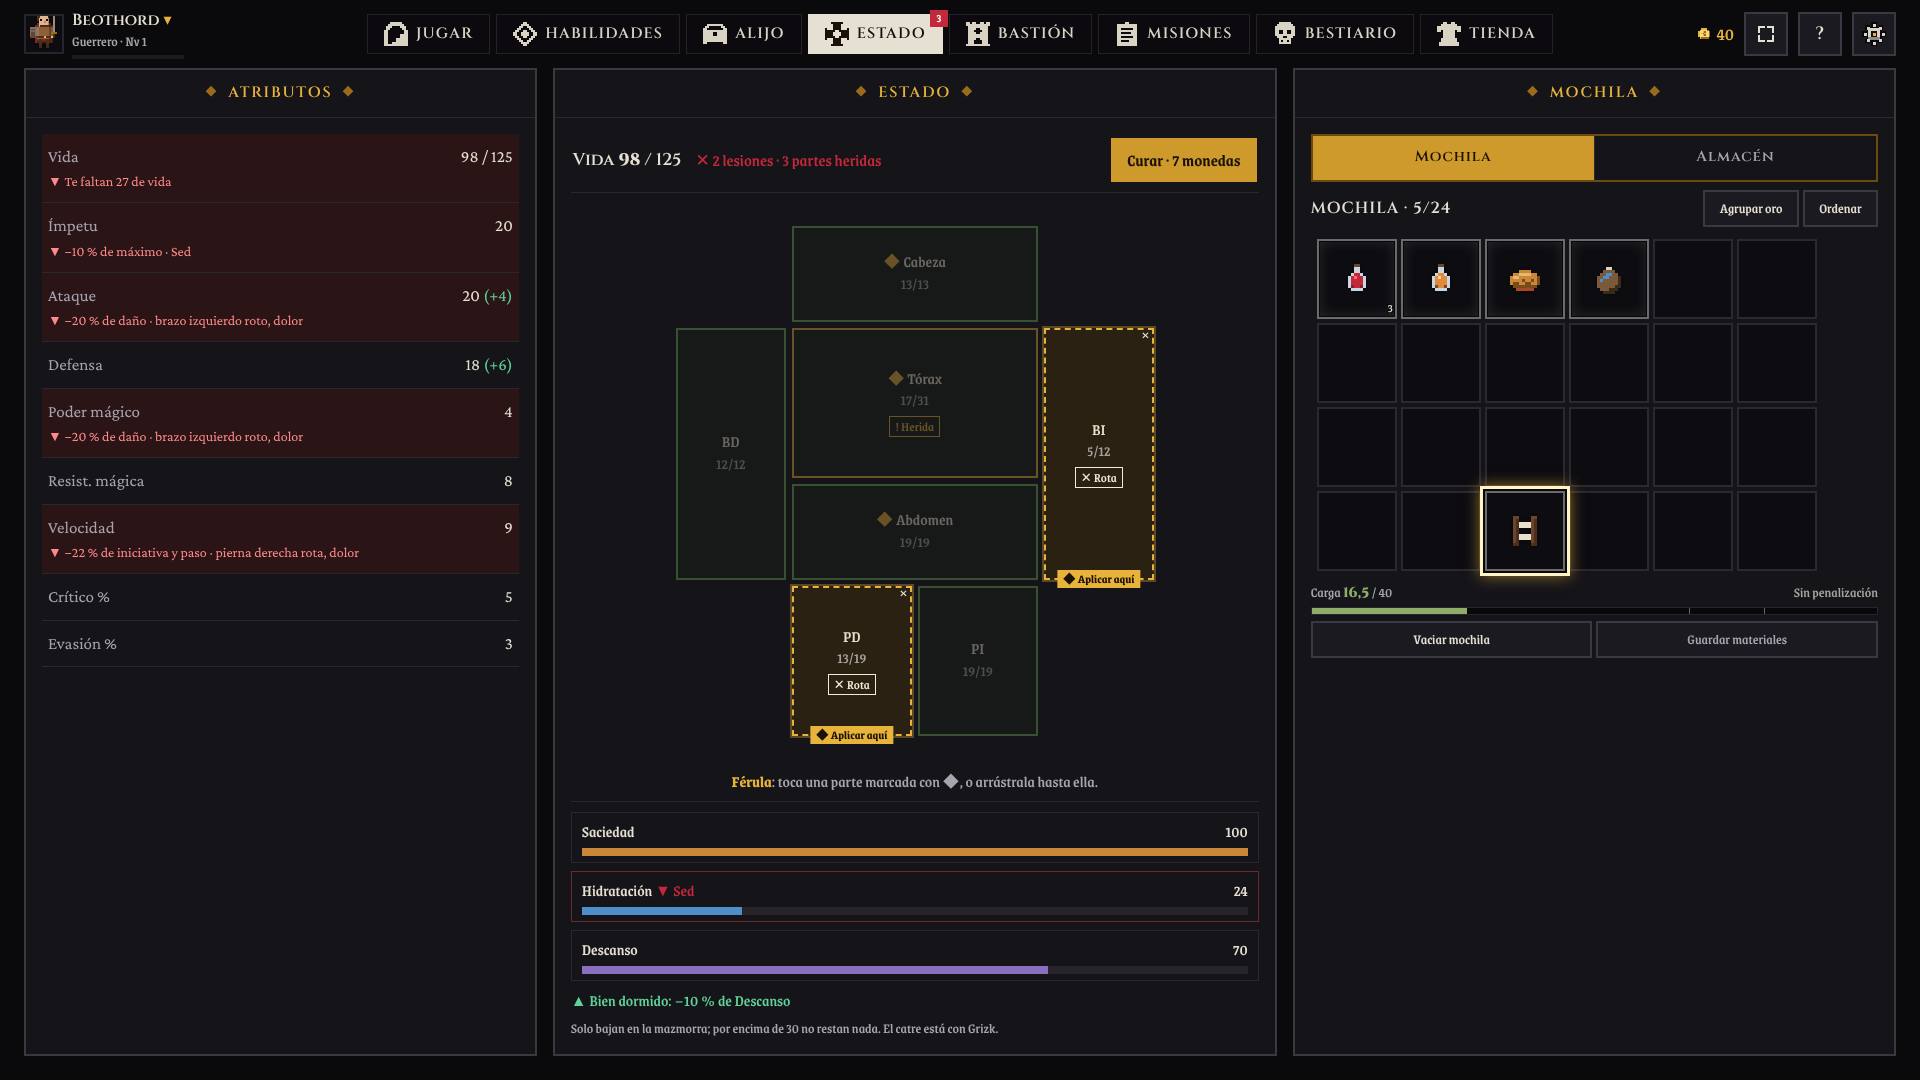
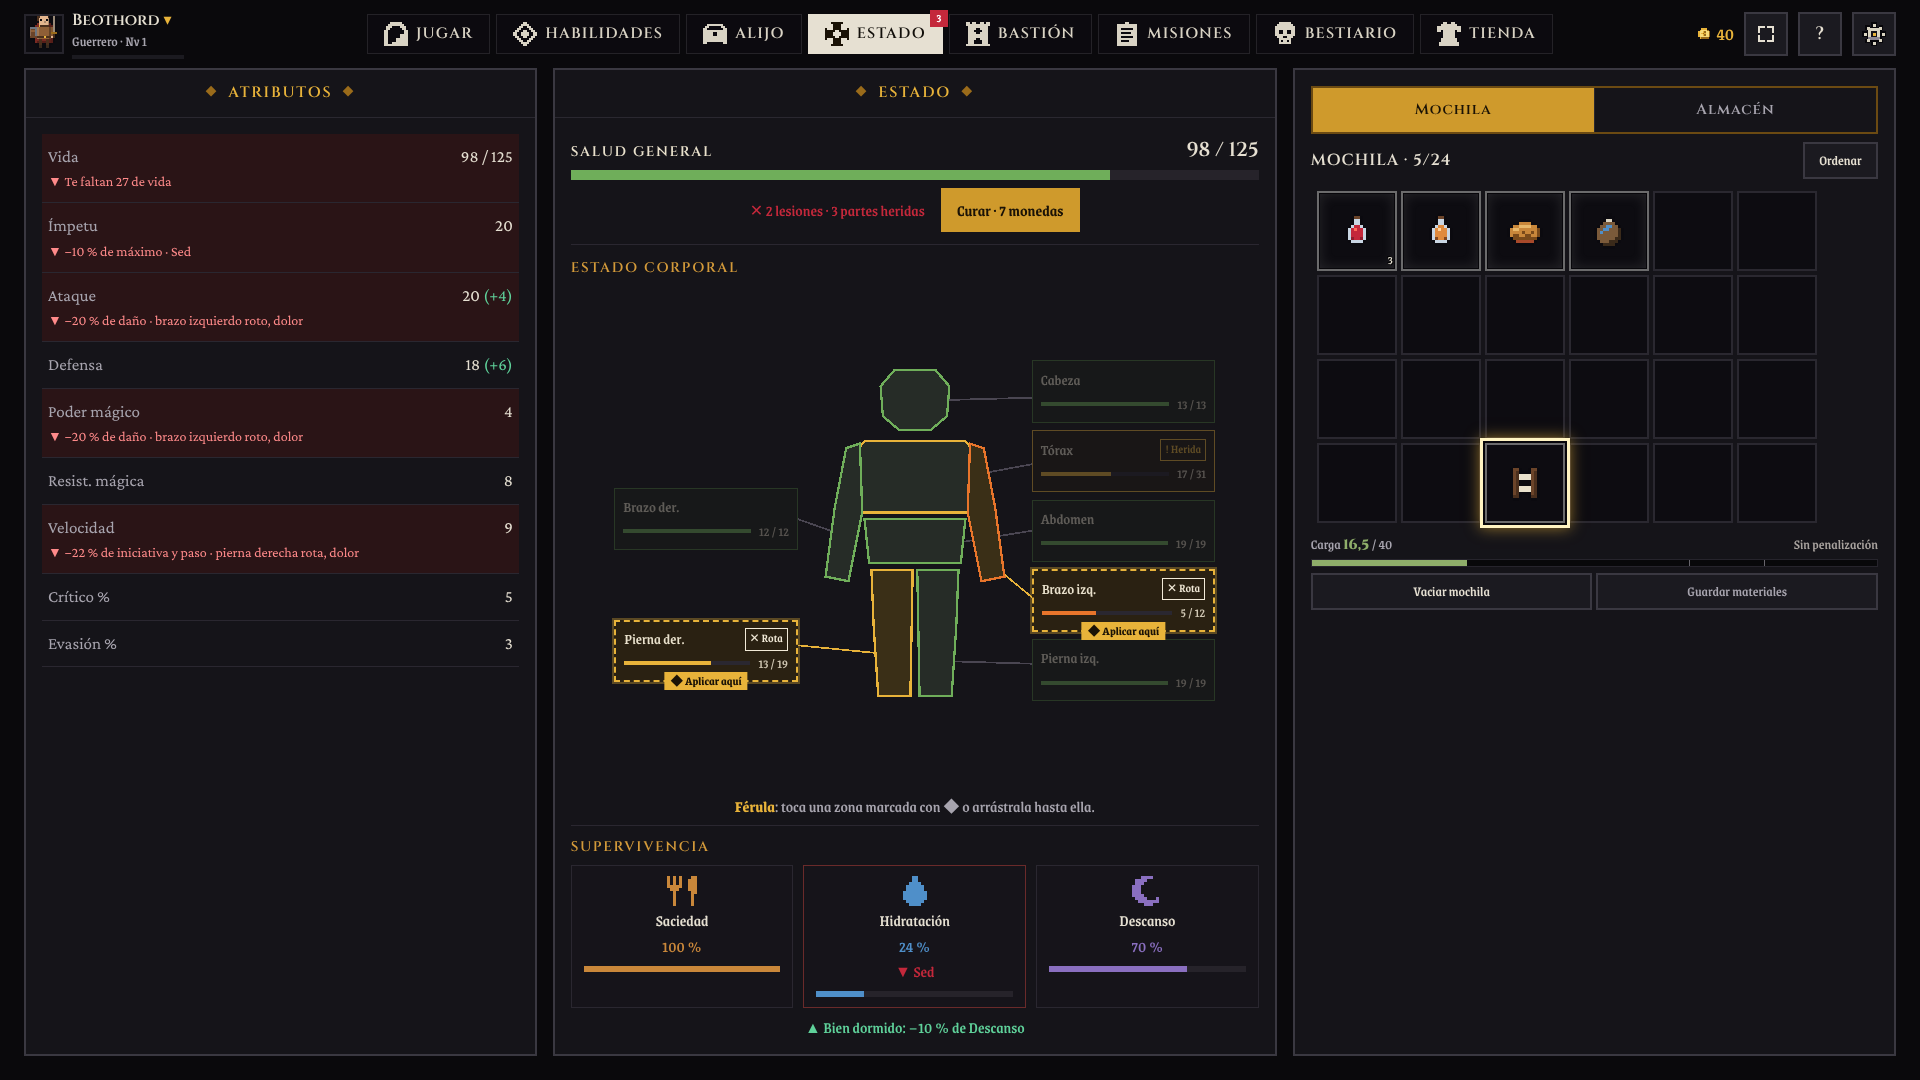
Gravevow (Vesrions 0.9.9.6)

diff --git a/src/game/ui/EstadoParts.tsx b/src/game/ui/EstadoParts.tsx
@@ -11,7 +11,11 @@ import { baseStats, computeStats } from '../../core/stats';
 import { STAT_KEYS, type Stats } from '../../core/types';
 import { actions, useGame } from '../state/store';
 import { useCure } from './CureOffer';
-import { woundsOf } from './BodyFigure';
+import { regionColor, regionWord, usefulOn, woundsOf } from './BodyFigure';
+import { PixelIcon } from '../../shared/community';
+import { ItemIcon } from './inventory';
+import { COIN_ID } from '../../config/gold';
+import { regionCap, regionMaxes } from '../../core/anatomy';
 
 type Mark = { txt: string; good: boolean };
 const pct = (x: number) => `${Math.round(x * 100)} %`;
@@ -68,46 +72,124 @@ export function StatusAttrs({ body }: { body: Body }) {
   );
 }
 
-/** Resumen corto de arriba y botón de Vesper: «Curar · 5 monedas» (desactivado si no llega, con lo que falta). */
+/** Salud general: vida total con su barra, lesiones y el botón de Vesper («Curar · 5 monedas», desactivado si no llega). */
 export function StatusTop({ body }: { body: Body }) {
   const gold = useGame((s) => s.profile!.gold);
   const cure = useCure();
   const lesions = REGIONS.reduce((n, r) => n + woundsOf(body, r).filter((k) => k !== 'hurt').length, 0);
   const hurt = REGIONS.filter((r) => woundsOf(body, r).length).length;
   const short = cure && !cure.free ? Math.max(0, cure.price - gold) : 0;
+  const hp = summaryHp(body);
+  const missing = Math.round(body.total - bodyHp(body));
+  const fixes = REGIONS.some((r) => woundsOf(body, r).some((k) => k !== 'hurt'));
+  const restores = missing > 0 && fixes ? 'recupera toda la vida y cura todas las lesiones' : fixes ? 'cura todas las lesiones' : 'recupera toda la vida';
+  const pc = Math.max(0, Math.min(100, (hp / Math.max(1, body.total)) * 100));
   return (
     <div className="estado-top" data-testid="estado-top">
-      <span className="font-display text-parchment">Vida <b>{summaryHp(body)}</b> / {body.total}</span>
-      {hurt ? <span className="text-blood" data-testid="body-banner">✕ {lesions ? `${lesions} ${lesions === 1 ? 'lesión' : 'lesiones'} · ` : ''}{hurt} {hurt === 1 ? 'parte herida' : 'partes heridas'}</span>
-        : <span className="text-heal" data-testid="body-banner">✓ Sin lesiones</span>}
-      {cure && (
-        <button className="btn btn-gold ml-auto" style={{ minHeight: 44 }} disabled={short > 0} onClick={() => actions.vesperTreat()} data-testid="cure-btn"
-          title="Hermana Vesper: toda la vida, las heridas y los huesos. Se paga del oro del almacén.">
-          {cure.free ? 'Curar gratis' : `Curar · ${cure.price} ${cure.price === 1 ? 'moneda' : 'monedas'}`}{short > 0 ? ` · te faltan ${short}` : ''}
-        </button>
-      )}
+      <div className="estado-h"><span className="estado-cap">Salud general</span><span className="font-display text-parchment text-xl">{hp} / {body.total}</span></div>
+      <div className="estado-hp"><i style={{ width: `${pc}%`, background: pc > 75 ? '#6fae5a' : pc > 45 ? '#e8b33a' : '#d23a3a' }} /></div>
+      <div className="estado-h2">
+        <div className="flex flex-col">
+          {hurt ? <span className="text-blood" data-testid="body-banner"><span className="estado-dot" aria-hidden>●</span> {lesions ? `${lesions} ${lesions === 1 ? 'lesión' : 'lesiones'} · ` : ''}{hurt} {hurt === 1 ? 'parte herida' : 'partes heridas'}</span>
+            : <span className="text-heal" data-testid="body-banner">⊘ Salud completa</span>}
+          {missing > 0 && <span className="text-sm text-stone-400" data-testid="estado-missing">−{missing} puntos de vida</span>}
+        </div>
+        {cure && (
+          <button className={`estado-cure ${short > 0 ? 'off' : ''}`} disabled={short > 0} onClick={() => actions.vesperTreat()} data-testid="cure-btn"
+            title={`Hermana Vesper: ${restores}. Se paga del oro del almacén.${short > 0 ? ` Te faltan ${short} monedas.` : ''}`}
+            aria-label={cure.free ? 'Curar gratis' : `Curar por ${cure.price} ${cure.price === 1 ? 'moneda' : 'monedas'}${short > 0 ? `, te faltan ${short}` : ''}`}>
+            <span>Curar</span><span className="estado-cure-sep" aria-hidden />
+            {cure.free ? <span>gratis</span> : <span className="estado-cure-price"><ItemIcon itemId={COIN_ID} size={20} />{cure.price}</span>}
+          </button>
+        )}
+      </div>
     </div>
   );
 }
 
-/** Las tres barras con su estado (▼ Hambre, Sed o Cansancio) y, debajo, la preparación que ya llevas (▲). */
+// Estado corporal: silueta plana (escala del lienzo 600 × 300) y una ficha por parte unida con una línea.
+const SIL: Record<Region, string> = {
+  head: '282,8 318,8 330,22 328,48 314,60 286,60 272,48 270,22',
+  thorax: '256,70 344,70 356,84 350,132 250,132 244,84',
+  abdomen: '256,138 344,138 340,176 260,176',
+  armR: '240,76 252,72 254,132 242,192 222,188 230,128',
+  armL: '360,76 348,72 346,132 358,192 378,188 370,128',
+  legR: '262,182 298,182 296,292 268,292 264,232',
+  legL: '302,182 338,182 336,232 332,292 304,292',
+};
+const CARD: Record<Region, { x: number; y: number; to: [number, number] }> = {
+  head: { x: 402, y: 6, to: [328, 34] }, thorax: { x: 402, y: 64, to: [348, 100] }, abdomen: { x: 402, y: 122, to: [340, 158] },
+  armL: { x: 402, y: 180, to: [368, 178] }, legL: { x: 402, y: 238, to: [334, 262] },
+  armR: { x: 38, y: 112, to: [232, 150] }, legR: { x: 38, y: 222, to: [280, 256] },
+};
+const CW = 160, CH = 52;
+const CARD_NAME: Record<Region, string> = { head: 'Cabeza', thorax: 'Tórax', abdomen: 'Abdomen', armR: 'Brazo der.', armL: 'Brazo izq.', legR: 'Pierna der.', legL: 'Pierna izq.' };
+
+/** Cuerpo con fichas: tocar una ficha (o su parte) con una cura elegida la aplica; arrastrar una cura encima, también. */
+export function BodyMap({ body, shown, onPick }: { body: Body; shown: string | null; onPick: (r: Region) => void }) {
+  const drop = (r: Region) => (shown ? (usefulOn(body, shown, r) ? 'yes' : 'no') : null);
+  return (
+    <div className="bmap" data-testid="body-map">
+      <svg viewBox="0 0 600 300" className="bmap-svg" shapeRendering="crispEdges" aria-hidden>
+        {REGIONS.map((r) => {
+          const c = CARD[r], left = c.x < 300;
+          const d = drop(r);
+          return (
+            <g key={r} className={d ? `bmap-${d}` : undefined}>
+              <line x1={left ? c.x + CW : c.x} y1={c.y + CH / 2} x2={c.to[0]} y2={c.to[1]} stroke={d === 'yes' ? '#e8b33a' : '#4a4652'} strokeWidth={1.5} />
+              <polygon points={SIL[r]} fill={d === 'yes' ? '#3a2f17' : '#262c27'} stroke={isDisabled(body, r) ? '#6b6470' : regionColor(body, r)} strokeWidth={2} onClick={() => onPick(r)} style={{ cursor: 'pointer', pointerEvents: 'all' }} />
+            </g>
+          );
+        })}
+      </svg>
+      {REGIONS.map((r) => {
+        const c = CARD[r], p = body.parts[r], cap = regionCap(body, r), max = regionMaxes(body.total)[r];
+        const w = regionWord(body, r), d = drop(r);
+        return (
+          <button key={r} type="button" className={`bmap-card ${w.cls !== 'ok' ? 'hurt' : ''} ${d === 'yes' ? 'drop-yes' : d === 'no' ? 'drop-no' : ''}`}
+            style={{ left: `${(c.x / 600) * 100}%`, top: `${(c.y / 300) * 100}%`, width: `${(CW / 600) * 100}%`, height: `${(CH / 300) * 100}%`, ['--rc' as string]: regionColor(body, r) }}
+            data-drop={JSON.stringify({ type: 'body', region: r })} onClick={() => onPick(r)}
+            aria-label={`${REGION_NAME[r]}: ${p.hp} de ${cap}. ${w.word}`} data-testid={`body-row-${r}`}>
+            <span className="bmap-name">{CARD_NAME[r]}{w.cls !== 'ok' && <span className={`doll-word ${w.cls}`} data-testid={`body-state-${r}`}>{w.ico} {w.word}</span>}</span>
+            <span className="bmap-row"><span className="bmap-bar"><i style={{ width: `${(p.hp / Math.max(1, max)) * 100}%`, background: regionColor(body, r) }} /></span><span className="bmap-hp">{p.hp} / {cap}</span></span>
+            {d === 'yes' && <span className="doll-apply" aria-hidden>◆ Aplicar aquí</span>}
+          </button>
+        );
+      })}
+    </div>
+  );
+}
+
+const NEED_ICON: Record<string, string[]> = {
+  sat: ['X.X.X...XX', 'X.X.X..XXX', 'X.X.X..XXX', 'XXXXX..XXX', '.XXX...XXX', '..X.....XX', '..X.....X.', '..X.....X.', '..X.....X.', '..X.....X.'],
+  hyd: ['....XX....', '....XX....', '...XXXX...', '..XXXXXX..', '..XXXXXX..', '.XXXXXXXX.', '.XXXXXXXX.', '.XXXXXXXX.', '..XXXXXX..', '...XXXX...'],
+  rest: ['...XXXX...', '.XXXX.....', '.XXX......', 'XXX.......', 'XXX.......', 'XXX.......', 'XXXX......', '.XXXX...X.', '..XXXXXXX.', '....XXX...'],
+};
+
+/** Supervivencia: Saciedad, Hidratación y Descanso en tres tarjetas; con 30 o menos, «▼ Hambre / Sed / Cansancio». */
 export function StatusNeeds() {
   const p = useGame((s) => s.profile)!;
   const n = needsOf(p.needs);
   const prep = prepText(p.prep);
   return (
     <div className="estado-needs" data-testid="estado-needs">
-      {NEEDS.map((k) => {
-        const v = Math.round(n[k]);
-        const low = v <= 30;
-        return (
-          <div key={k} className={`estado-need ${low ? 'low' : ''}`} data-testid={`need-${k}`}>
-            <div className="flex justify-between gap-2"><span>{NEED_NAME[k]}{low && <span className="text-blood text-sm"> ▼ {NEED_LOW[k]}{v <= 0 && k !== 'rest' ? ' · hiere el tórax' : ''}</span>}</span><span>{v}</span></div>
-            <div className="estado-need-bar"><i style={{ width: `${v}%`, background: NEED_COLOR[k] }} /></div>
-          </div>
-        );
-      })}
-      {prep.map((t) => <p key={t} className="text-heal text-sm" data-testid="estado-prep">▲ {t}</p>)}
+      <div className="estado-cap">Supervivencia</div>
+      <div className="estado-need-row">
+        {NEEDS.map((k) => {
+          const v = Math.round(n[k]);
+          const low = v <= 30;
+          return (
+            <div key={k} className={`estado-need ${low ? 'low' : ''}`} data-testid={`need-${k}`}>
+              <PixelIcon rows={NEED_ICON[k]} size={30} color={NEED_COLOR[k]} />
+              <span className="text-parchment">{NEED_NAME[k]}</span>
+              <span style={{ color: NEED_COLOR[k] }}>{v} %</span>
+              {low && <span className="text-blood text-sm">▼ {NEED_LOW[k]}{v <= 0 && k !== 'rest' ? ' · hiere el tórax' : ''}</span>}
+              <div className="estado-need-bar"><i style={{ width: `${v}%`, background: NEED_COLOR[k] }} /></div>
+            </div>
+          );
+        })}
+      </div>
+      {prep.map((t) => <p key={t} className="text-heal text-sm text-center" data-testid="estado-prep">▲ {t}</p>)}
     </div>
   );
 }

diff --git a/src/game/game.css b/src/game/game.css
@@ -1764,20 +1764,33 @@ div.hb-acard{cursor:default}
 @media (max-width:900px){.hb-acard-top{flex-wrap:wrap}.hb-acard-name{font-size:15px}}
 [data-testid=character-stats].al-stats-tight [data-testid=skill-stats] .hb-stat,.al-stats-tight [data-testid=skill-stats] .hb-stat{flex:0 0 auto;padding:3px 6px;font-size:13px}
 
-/* ESTADO en escritorio (27/11): resumen, cuerpo grande con heridas en texto, marca de aplicar y barras */
-.estado-top{display:flex;align-items:center;gap:14px;flex-wrap:wrap;padding:4px 2px 10px;border-bottom:1px solid #2a2730;font-size:17px}
-.estado-doll{padding:12px 0}
-.estado-doll .doll{grid-template-columns:repeat(4,minmax(0,130px));grid-template-rows:96px 150px 96px 150px;width:auto}
-.estado-doll .doll-part{font-size:16px}
-.doll-word{font-size:13px;padding:0 5px;border:1px solid currentColor;margin-top:2px;white-space:nowrap}
+/* ESTADO en escritorio (27/11): salud general, cuerpo con fichas y supervivencia */
+.estado-cap{font-family:var(--font-display);color:#d39a3a;letter-spacing:.12em;text-transform:uppercase;font-size:14px}
+.estado-top{padding:2px 0 12px;border-bottom:1px solid #2a2730}
+.estado-h{display:flex;justify-content:space-between;align-items:baseline}.estado-h .estado-cap{color:#e9e1cc}
+.estado-hp{height:10px;background:#26232a;margin:6px 0 8px}.estado-hp i{display:block;height:100%}
+.estado-h2{display:flex;align-items:center;justify-content:space-between;gap:16px;min-height:44px;font-size:16px}
+.estado-dot{font-size:10px;vertical-align:2px}
+.estado-cure{display:inline-flex;align-items:center;gap:12px;min-height:44px;padding:0 14px;background:#1d1910;border:1px solid #c9952e;color:#e8c46a;font-family:var(--font-body);font-size:17px;cursor:pointer}
+.estado-cure:hover{background:#2a2312}
+.estado-cure-sep{width:1px;align-self:stretch;margin:8px 0;background:#6b5420}
+.estado-cure-price{display:inline-flex;align-items:center;gap:6px;color:#f0d9a0}
+.estado-cure.off{background:#17151a;border-color:#3a3741;color:#8c8693;cursor:not-allowed}.estado-cure.off .estado-cure-sep{background:#3a3741}.estado-cure.off .estado-cure-price{color:#e0605a}
+.estado-doll{min-height:200px;padding:8px 0 14px}
+.bmap{position:relative;aspect-ratio:2/1;height:100%;max-height:360px;max-width:100%}
+.bmap-svg{position:absolute;inset:0;width:100%;height:100%}
+.bmap-card{position:absolute;display:flex;flex-direction:column;justify-content:center;gap:3px;padding:2px 8px;background:#1b211a;border:1px solid #4d7a3d;color:#e9e1cc;font:inherit;text-align:left;min-height:0;cursor:pointer}
+.bmap-card:hover{filter:brightness(1.15)}.bmap-card.hurt{border-color:var(--rc);background:#211a12}
+.bmap-card.drop-yes{border:2px dashed #e8b33a;background:#2a2112;box-shadow:0 0 0 2px #e8b33a55}.bmap-card.drop-no{opacity:.35}
+.bmap-name{display:flex;justify-content:space-between;gap:6px;font-size:15px;white-space:nowrap}
+.bmap-row{display:flex;align-items:center;gap:8px}.bmap-bar{flex:1;height:4px;background:#2a2730}.bmap-bar i{display:block;height:100%}
+.bmap-hp{font-size:13px;color:#cfc6b2;white-space:nowrap}
+.doll-word{font-size:12px;padding:0 4px;border:1px solid currentColor;white-space:nowrap}
 .doll-word.bleed{color:#ff6b6b}.doll-word.frac{color:#f2ead8}.doll-word.hurt{color:#e8b33a}.doll-word.off{color:#a8a0b0}
 .doll-apply{position:absolute;bottom:-10px;left:50%;transform:translateX(-50%);background:#e8b33a;color:#1a1206;font-size:12px;font-weight:700;padding:0 6px;white-space:nowrap;z-index:1}
-.estado-doll .doll-part.drop-yes{border:2px dashed #e8b33a;background:#2a2112;box-shadow:0 0 0 2px #e8b33a55}
-.estado-needs{display:flex;flex-direction:column;gap:8px;border-top:1px solid #2a2730;padding-top:10px}
-.estado-need{border:1px solid #2a2730;padding:6px 10px;font-size:16px}.estado-need.low{border-color:#6a2a2a}
-.estado-need-bar{height:8px;background:#26232a;margin-top:5px}.estado-need-bar i{display:block;height:100%}
+.estado-needs{border-top:1px solid #2a2730;padding-top:10px;display:flex;flex-direction:column;gap:8px}
+.estado-need-row{display:grid;grid-template-columns:repeat(3,1fr);gap:10px}
+.estado-need{display:flex;flex-direction:column;align-items:center;gap:2px;border:1px solid #2a2730;background:#16141a;padding:10px 12px;font-size:16px}
+.estado-need.low{border-color:#6a2a2a}
+.estado-need-bar{align-self:stretch;height:6px;background:#26232a;margin-top:6px}.estado-need-bar i{display:block;height:100%}
 .estado-attrs .hb-stat{font-size:17px;padding:10px 6px}.estado-attrs .hb-stat-m{font-size:14px}
-.estado-doll{overflow:hidden;min-height:180px}
-.estado-doll .doll{grid-template-columns:110px 120px 120px 110px;grid-template-rows:2fr 3fr 2fr 3fr;height:100%;max-height:520px;width:auto}
-.estado-doll .doll-part{min-height:0}
-.estado-doll .doll-name{font-size:16px}.estado-doll .doll-hp{font-size:15px}

diff --git a/src/game/ui/screens/Alijo.tsx b/src/game/ui/screens/Alijo.tsx
@@ -22,8 +22,8 @@ import { CarryBar } from '../CarryBar';
 import { ItemSlot, GridView, SLOT_LABELS, highlightItems, compareWithEquipped, type InvMode } from '../inventory';
 import { PlayerSprite } from '../common';
 import { Panel, SubHead, Segmented, usePixelScale } from '../kit';
-import { BlockBody, BodyPanel, usefulOn } from '../BodyFigure';
-import { StatusAttrs, StatusNeeds, StatusTop } from '../EstadoParts';
+import { BodyPanel, usefulOn } from '../BodyFigure';
+import { BodyMap, StatusAttrs, StatusNeeds, StatusTop } from '../EstadoParts';
 import type { Region } from '../../../config/anatomy';
 import { NeedsPanel } from '../NeedsBars';
 import { needsOf } from '../../../core/needs';
@@ -280,10 +280,11 @@ export function Alijo({ onShop, section }: { onShop?: () => void; section?: 'sta
           <Panel title="Estado" className="min-h-0" bodyClassName="min-h-0 flex flex-col">
             <div className="flex-1 min-h-0 flex flex-col estado-center" data-testid="intendencia-status">
               <StatusTop body={body} />
-              <div className="flex-1 min-h-0 flex items-stretch justify-center estado-doll">
-                <BlockBody body={body} sel={null} words onPick={onPart} drop={(r) => (shown ? (usefulOn(body, shown, r) ? 'yes' : 'no') : null)} />
+              <div className="estado-cap mt-3">Estado corporal</div>
+              <div className="flex-1 min-h-0 flex items-center justify-center estado-doll">
+                <BodyMap body={body} shown={shown} onPick={onPart} />
               </div>
-              <p className="text-sm text-stone-400 text-center mb-2" data-testid="estado-hint">{pick ? <><b className="text-gold">{getItem(pick).name}</b>: toca una parte marcada con ◆, o arrástrala hasta ella.</> : 'Elige una cura de la mochila o del almacén y toca la parte del cuerpo, o arrástrala hasta ella.'}</p>
+              <p className="text-sm text-stone-400 text-center mb-2" data-testid="estado-hint">{pick ? <><b className="text-gold">{getItem(pick).name}</b>: toca una zona marcada con ◆ o arrástrala hasta ella.</> : 'Selecciona o arrastra una cura sobre la zona afectada.'}</p>
               <StatusNeeds />
             </div>
           </Panel>
